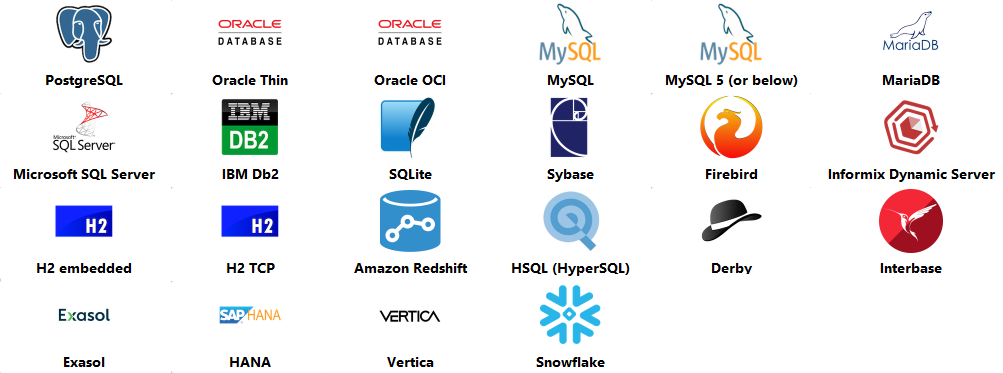
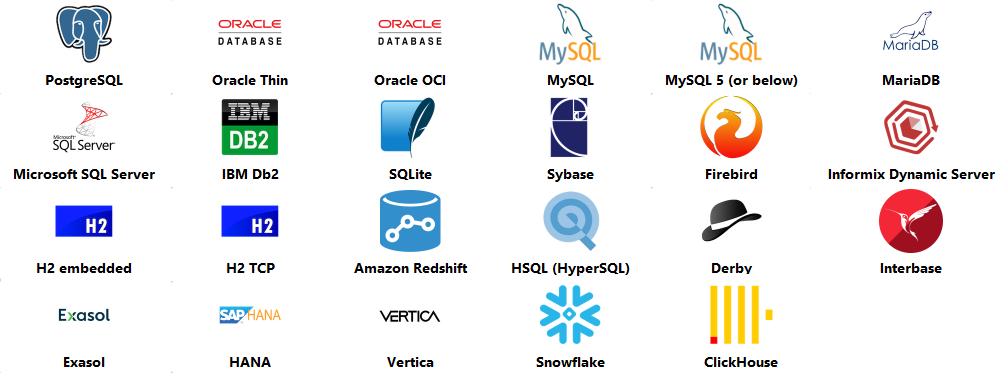
docu update

Changed region(s): [[0.7109, 0.7668, 0.7727, 1.0]]

diff --git a/docs/home.htm b/docs/home.htm
@@ -158,6 +158,7 @@ Jailer also uses additional knowledge to cope with the peculiarities of major da
      <li>SAP HANA</li>
      <li>Vertica</li>
      <li>Snowflake</li>
+     <li>ClickHouse</li>
      </ul>
 
      </td><td>&nbsp;&nbsp;&nbsp;&nbsp;&nbsp;&nbsp;&nbsp;&nbsp;&nbsp;&nbsp;&nbsp;&nbsp;&nbsp;&nbsp;&nbsp;&nbsp;&nbsp;&nbsp;&nbsp;&nbsp;</td>

diff --git a/docs/index.html b/docs/index.html
@@ -158,6 +158,7 @@ Jailer also uses additional knowledge to cope with the peculiarities of major da
      <li>SAP HANA</li>
      <li>Vertica</li>
      <li>Snowflake</li>
+     <li>ClickHouse</li>
      </ul>
 
      </td><td>&nbsp;&nbsp;&nbsp;&nbsp;&nbsp;&nbsp;&nbsp;&nbsp;&nbsp;&nbsp;&nbsp;&nbsp;&nbsp;&nbsp;&nbsp;&nbsp;&nbsp;&nbsp;&nbsp;&nbsp;</td>
